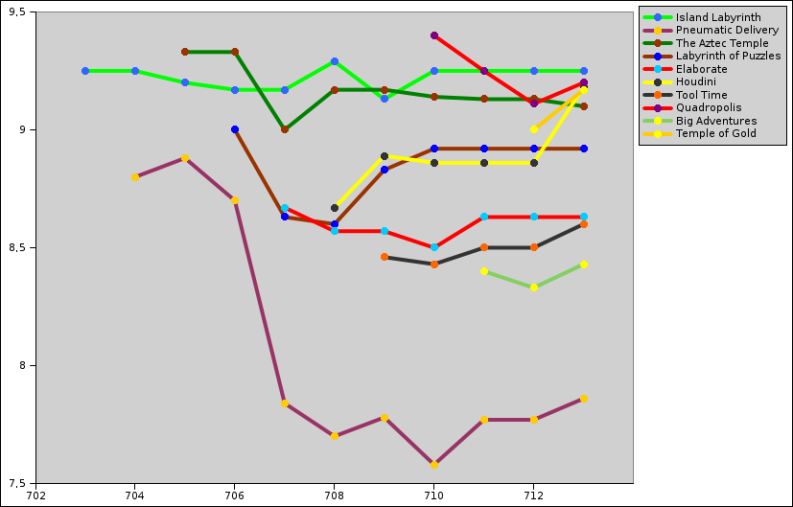
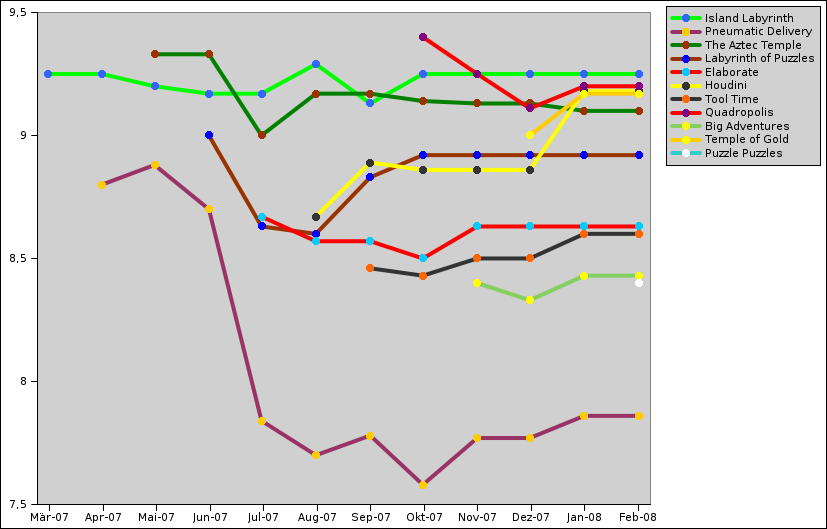
LotM:  - Updated lotm-history.png  - 200802 German + English: Ryujun's comment Todo:  - Maybe first steps for Russian translation?

diff --git a/feature_branches/hp_lotm/input/lotm/lotm_200802_de.html b/feature_branches/hp_lotm/input/lotm/lotm_200802_de.html
@@ -75,6 +75,11 @@ now reached his first Level of the Month.
 <h4>&quot;'Puzzle Puzzles' übt schon eine gewisse Faszination auf mich
 aus&quot;</h4>
 
+<div class="lotmpic">
+<img src="$$imagedir$$/lotm/lotm_200802_d.png" alt="Level of the month" border="0">
+<div class="imagetitle">Das erste Hindernis &hellip;</div>
+</div>
+
 <div class="quote">
 Doch, &quot;Puzzle Puzzles&quot; ist wirklich eine so seltsame Mischung aus
 schwierig und leicht, dass ich oft verwundert dasitze und mich frage, warum ich
@@ -112,6 +117,59 @@ dunkle Plattformen, die uns an seine andere bevorzugte Kombination von dunklen
 Materialien und Abyss erinnern.
 </p>
 
+<h4>&quot;Ich musste ein Bauingenieur werden&quot;</h4>
+
+<div class="quote">
+&quot;Puzzle Puzzles&quot; ist eines derjenigen Level, die ich für lange Zeit
+nicht lösen konnte, und auch in seinen Rätseln sehr schwer ist. Der Level, der
+in einer Meereslandschaft spielt, statt einem von Wänden umgebenen Raum,
+unterscheidet sich in ausgeprägter Weise von anderen &quot;Leveln des
+Monats&quot;, und vielleicht werden wir in der Lage sein, einfacher auf die
+gesamte Landschaft zu blicken. Als ich nun den Level zum ersten Mal gespielt
+hatte, schien der Level nicht viele komplexe Schwierigkeiten aufzuwerfen. Dazu
+kam, habe ich vielleicht gedacht, ich könnte ihn auf einfache Weise lösen. Aber
+ich lag falsch, und fühlte mich eingebildet. Es war schwer für mich, den Level
+zu lösen.
+</div>
+
+<div class="lotmpic">
+<img src="$$imagedir$$/lotm/lotm_200802_b.png" alt="Level of the month" border="0">
+<div class="imagetitle">&hellip; und das zweite!
+<br>Das Extraleben nicht vergessen.</div>
+</div>
+
+<div class="quote">
+Ich begann mit dem einfachen Modus. Ich musste ein Bauingenieur werden, um eine
+Brücke über den See zu bauen, und den Level zu lösen. Aber unerwarteterweise
+fand ich es schwierig, diese Aufgaben zu erfüllen, aufgrund der X-förmigen
+Drahtgestelle (st-grate1) und Abhänge (fl-gradient) um die Insel mit den
+Puzzlesteinen und zerbrochenen Flaschen (it-booze-broken). Und das war noch
+nicht mal alles - der Level bietet weitere Hindernisse, beispielsweise fand ich
+es schwierig, eine unsichtbare Murmel zu manövrieren, den das benötigt
+Geschicklichkeit, Geduld und Schnelligkeit. Folglich haben diese auch hohe
+Schwierigkeits-Bewertungen für den Level, ebenso wie Intelligenz und Wissen.
+Ich mag solche Levels, die einem gleich mehrere Fähigkeiten stark abverlangen.
+</div>
+
+<div class="quote">
+Nachdem ich den einfachen Modus gelöst hatte, war ich nicht sogleich in der
+Lage, den schweren Modus zu lösen, da die Strukturen ziemlich verschieden sind.
+So brauchte ich viel Zeit, ein noch exzellenterer Bauingenieur zu werden. 'Zu
+werden' ist höchst schwierig, aber auch höchst unterhaltsam. Und die X-förmigen
+Drahtgestelle (st-grate1) sind ein wichtiges Hindernis, wären sie nicht da,
+hätte ich es früher gelöst. Außerdem, war ich conscious excessively how to solve
+of easy mode, can you understand what this means?
+</div>
+
+<div class="quote">
+Abschließend bewundere ich Raoul Bourquin sehr stark, und ich denke, dass
+Leute, die so prächtige Levels erschaffen, reichliche kreative Fähigkeiten
+besitzen, und ohne diese, könnte ich nicht so glückliche Zeiten mit Enigma
+verbringen, und neue großartige Levels in der Zukunft erwarten.
+</div>
+
+<div class="author">Ryujun</div>
+
 
 <h4>&quot;Den Start wollte ich möglichst schwer machen&quot;</h4>
 
@@ -140,6 +198,12 @@ Räume, in denen ein unhandliches Puzzlestück nicht den Weg  der Kugel, sondern
 den Weg eines anderen Steines verstellt. Das Ziel sollte sein, einen Stein,
 beispielsweise einen simplen Holzstein, durch einen solchen Durchgang zu
 bekommen und an einem wohldefinierten Zielort zu plazieren.
+</div>
+
+<div class="lotmpic">
+<img src="$$imagedir$$/lotm/lotm_200802_c.png" alt="Level of the month" border="0">
+<div class="imagetitle">Eine Kirsche! Wofür mag die gut sein? <br>
+Das schaue ich mir näher an!</div>
 </div>
 
 <div class="quote">

diff --git a/feature_branches/hp_lotm/input/lotm/lotm_200802.html b/feature_branches/hp_lotm/input/lotm/lotm_200802.html
@@ -73,6 +73,11 @@ now reached his first Level of the Month.
 
 <h4>&quot;'Puzzle Puzzles' still fascinates me&quot;</h4>
 
+<div class="lotmpic">
+<img src="$$imagedir$$/lotm/lotm_200802_d.png" alt="Level of the month" border="0">
+<div class="imagetitle">The first obstacle &hellip;</div>
+</div>
+
 <div class="quote">
 Indeed, &quot;Puzzle Puzzles&quot; is such a strange mix of difficult and
 easy, that I just sit there, astonished, and ask myself, why I have
@@ -107,6 +112,56 @@ light, only broken by two darkish platforms, reminding us of his other prefered
 combination of dark materials and abyss.
 </p>
 
+<h4>&quot;I had to become a civil engineer&quot;</h4>
+
+<div class="quote">
+&quot;Puzzle Puzzles&quot; is one of the levels that I was not able to solve for
+a long time and has a very high difficulty in its puzzles. The level which is
+made from seascape not room surrounded by walls is distinct in comparison with
+other levels chosen &quot;Level of the Month&quot;, and perhaps we will be able
+to look at the whole seascape easily. So when I played the level for the first
+time, the level didn't seem to have a lot of complex difficulties. Additionally,
+I may have thought that I could solve it easily. But it was wrong, and I felt
+conceited. It was very difficult for me to solve it.
+</div>
+
+<div class="lotmpic">
+<img src="$$imagedir$$/lotm/lotm_200802_b.png" alt="Level of the month" border="0">
+<div class="imagetitle">&hellip; and the second!
+<br>Better get that extra life.</div>
+</div>
+
+<div class="quote">
+I began with solving the easy mode first. I had to become a civil engineer to
+make a bridge across the sea to solve the level. But unexpectedly, it was
+difficult for me to fulfill these tasks, because of the X-shaped wire netting
+(st-grate1) and the slopes (fl-gradient) around the island with the puzzle
+stones and broken bottles (it-booze-broken).  And this wasn't all&mdash;the
+level provides more obstacles, for example, it was difficult for me to operate an
+invisible marble, as doing this needs dexterity, patience, and speed. So these
+have high ratings on the level, as well as intelligence and knowledge. I like
+such levels which require various high abilities very much.
+</div>
+
+<div class="quote">
+After solving easy mode, I was not able to solve difficult mode at once because
+the structures are quite different. So I needed much time to become a more
+excellent civil engineer. 'To become' is the most difficult, but is also the most
+enjoyable. And the X-shaped wire netting (st-grate1) is an important barricade,
+so if it wasn't there, I would have solved it earlier. Additionally, I was
+conscious excessively how to solve of easy mode, can you understand what this
+means?</div>
+
+<div class="quote">
+Last I admire Raoul Bourquin very much, and I think that people who
+make such a splendid level have an abundant creative ability, and
+without them, I could not spend happy times with Enigma, and expect
+new splendid levels in the future.
+</div>
+
+<div class="author">Ryujun</div>
+
+
 
 <h4>&quot;I intended the start to be particularly difficult&quot;</h4>
 
@@ -133,6 +188,12 @@ rooms, in which a bulky puzzle piece didn't block the course of the marble, but
 of another stone. The goal should be, to push some stone, for example a simple
 wood stone, through such a passage, and place it on some well-defined
 destination.
+</div>
+
+<div class="lotmpic">
+<img src="$$imagedir$$/lotm/lotm_200802_c.png" alt="Level of the month" border="0">
+<div class="imagetitle">A cherry! What might it be good for? <br>
+I have to elaborate on that.</div>
 </div>
 
 <div class="quote">
